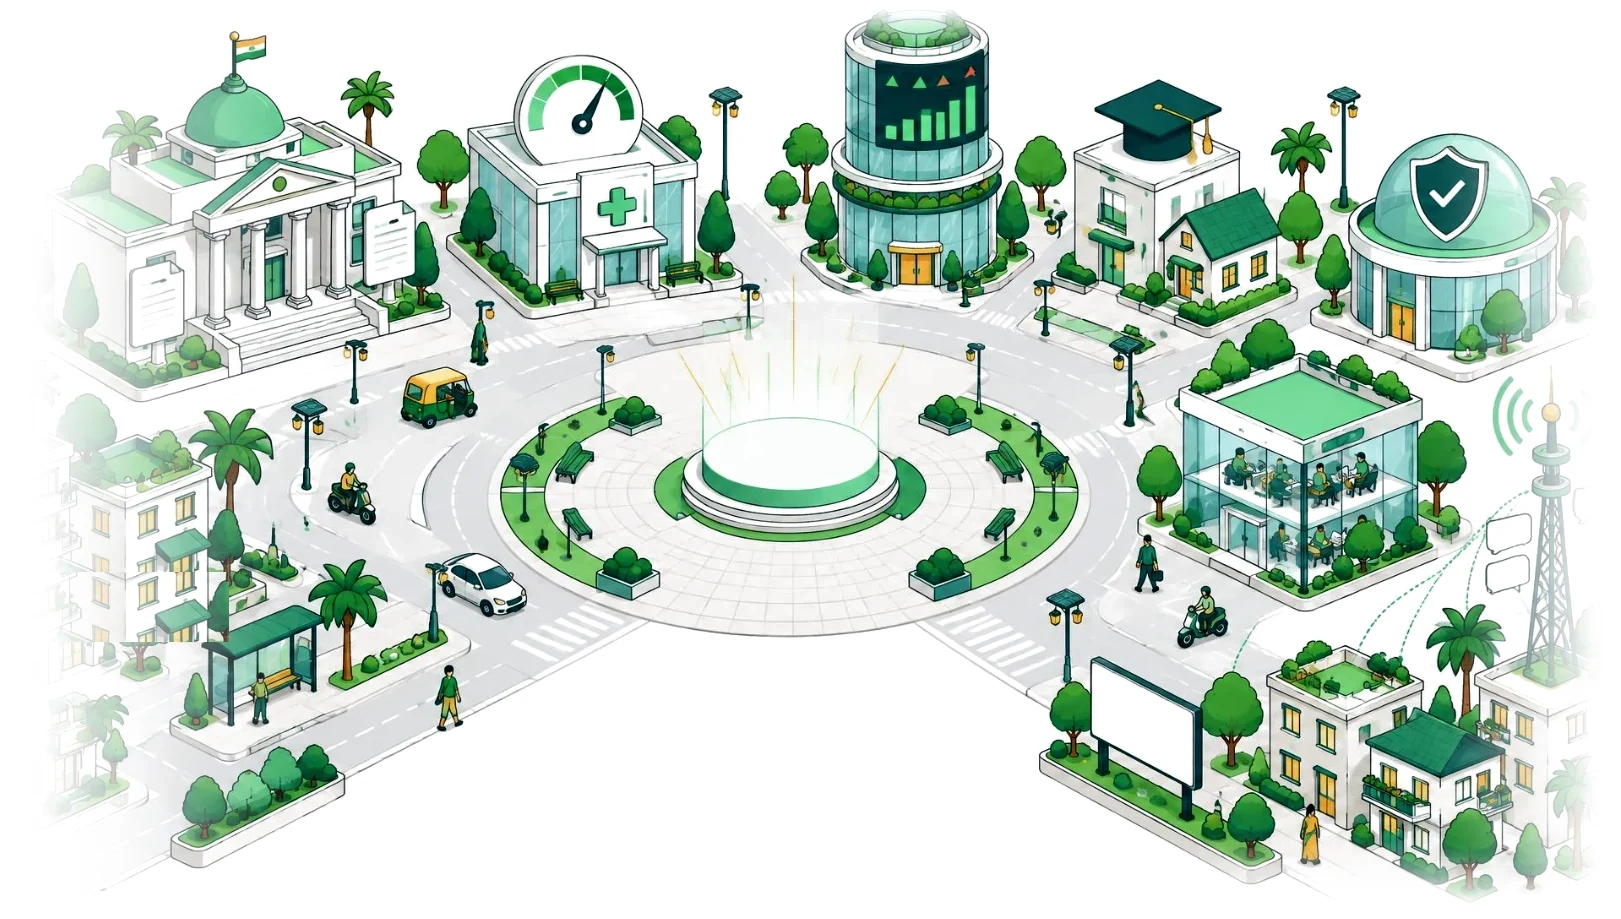
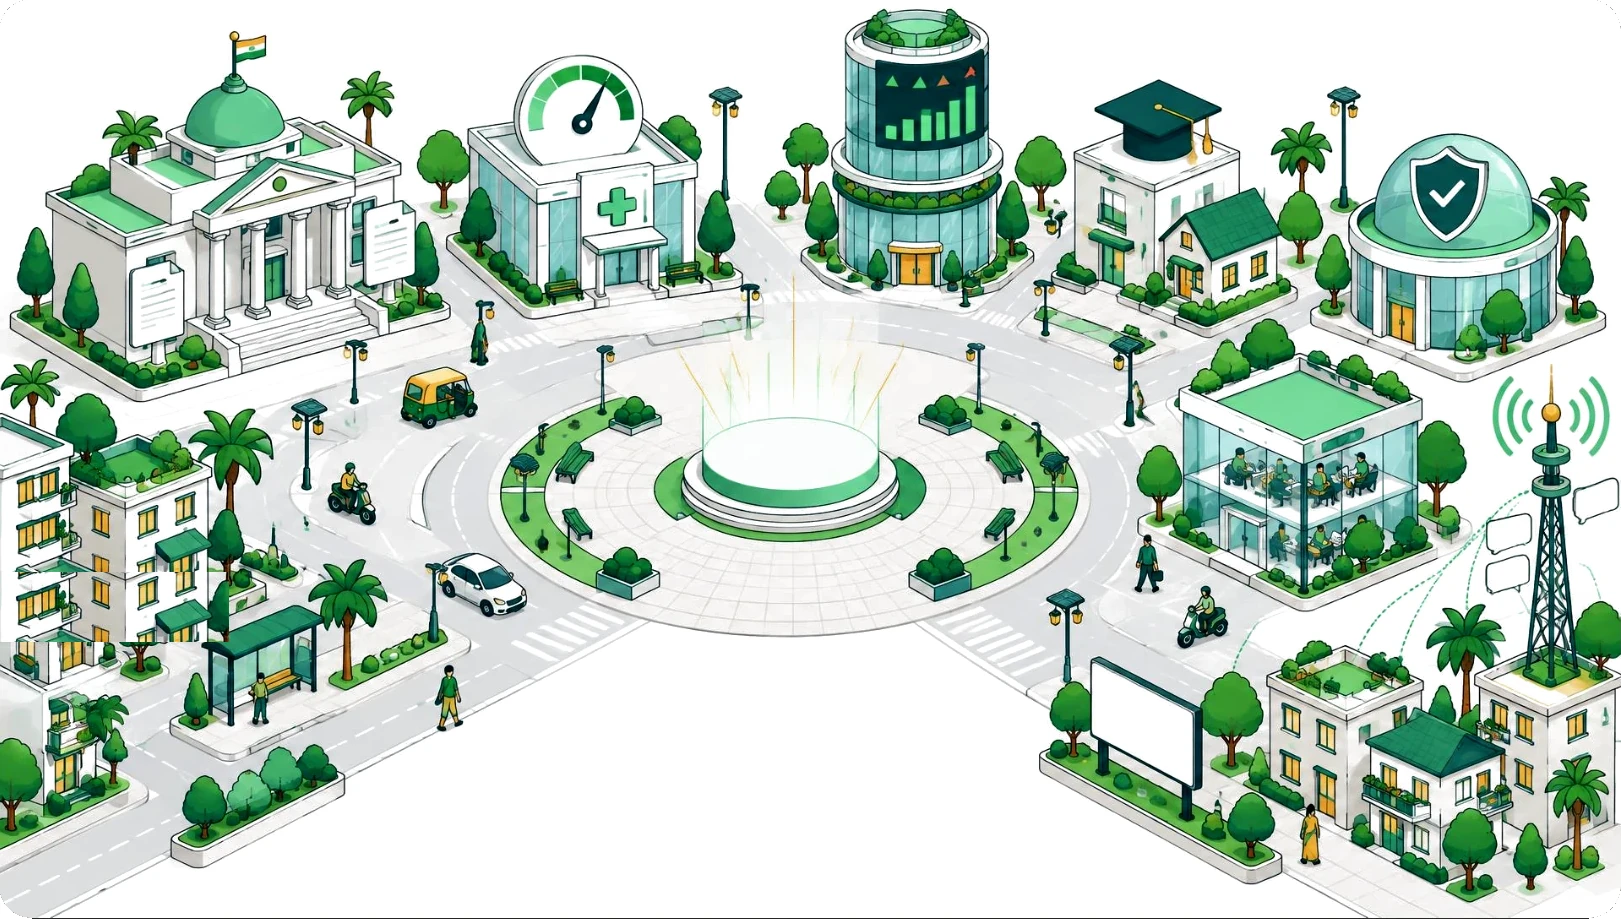
Landing hero: show the whole city (no edge fade or mobile crop); building-sized phone on every screen
Claude-Session: https://claude.ai/code/session_01UaM4Srwfts3q8As3Rv6baU

Changed region(s): [[0.0, 0.0305, 0.1851, 1.0], [0.7403, 0.1523, 1.0, 1.0], [0.5244, 0.0, 0.6169, 0.0609]]

diff --git a/src/components/landing/LandingHero.tsx b/src/components/landing/LandingHero.tsx
@@ -43,8 +43,8 @@ export const LandingHero: React.FC<{ onSample: () => void; onExplore: () => void
     if (!el || typeof ResizeObserver === 'undefined') return;
     const ro = new ResizeObserver(([entry]) => {
       const h = (entry.contentRect.width * 919) / 1621;
-      const share = window.innerWidth <= 700 ? 0.42 : 0.31; // about the height of the Growth Tower
-      setScale(Math.max(0.2, Math.min(0.5, (h * share) / PHONE_H)));
+      const share = 0.31; // about the height of the Growth Tower
+      setScale(Math.max(0.1, Math.min(0.5, (h * share) / PHONE_H)));
     });
     ro.observe(el);
     return () => ro.disconnect();

diff --git a/src/components/landing/heroCity.css b/src/components/landing/heroCity.css
@@ -50,8 +50,7 @@
 @keyframes hc-hover{0%,100%{translate:0 0}50%{translate:0 -6px}}
 
 @media (max-width:700px){
-  .hc-scene-wrap{overflow:hidden;overflow:clip;padding-top:6vw}
-  .hc-scene{width:178%;margin-left:-39%}
+  .hc-scene-wrap{padding:6vw 8px 0}
 }
 @media (prefers-reduced-motion:reduce){
   .hc-ticker-track,.hc-glow,.hc-phone,.hc-board b,.hc-board small{animation:none}
